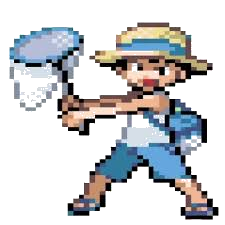
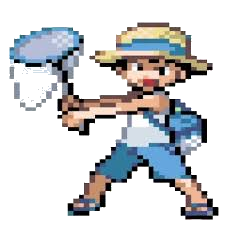
Fix Bug Catcher sprite (flood-fill bg removal) + expand Bug-type pool to all 12 Gen-1 bugs
- Flood-fill from borders only: net mesh interior whites preserved
- Pool now covers full Caterpie/Weedle/Paras/Venonat lines + Scyther + Pinsir
- Added Metapod, Kakuna, Paras, Venonat (were missing)

diff --git a/src/PokemonGame.jsx b/src/PokemonGame.jsx
@@ -3200,16 +3200,25 @@ const PokemonGame = () => {
     return true;
   };
 
-  // ── Bug Catcher Trade ────────────────────────────
+  // ── Bug Catcher Trade — all 12 Gen-1 Bug-types ──
   const bugCatcherPool = [
-    { name: 'Butterfree', type: 'Bug', type2: 'Flying', hp: 60, maxHp: 60, attack: 45, spAtk: 90, def: 50, spDef: 80, color: '🦋', moves: ['Gust', 'Confusion', 'Sleep Powder', 'Psychic'], moveTypes: ['Flying', 'Psychic', 'Grass', 'Psychic'] },
-    { name: 'Beedrill', type: 'Bug', type2: 'Poison', hp: 65, maxHp: 65, attack: 90, spAtk: 45, def: 40, spDef: 80, color: '🐝', moves: ['Fury Attack', 'Twineedle', 'Poison Jab', 'X-Scissor'], moveTypes: ['Normal', 'Bug', 'Poison', 'Bug'] },
-    { name: 'Scyther', type: 'Bug', type2: 'Flying', hp: 70, maxHp: 70, attack: 110, spAtk: 55, def: 80, spDef: 80, color: '🦗', moves: ['Slash', 'Wing Attack', 'X-Scissor', 'Aerial Ace'], moveTypes: ['Normal', 'Flying', 'Bug', 'Flying'] },
-    { name: 'Pinsir', type: 'Bug', type2: null, hp: 65, maxHp: 65, attack: 125, spAtk: 55, def: 100, spDef: 70, color: '🦂', moves: ['Vise Grip', 'Brick Break', 'X-Scissor', 'Earthquake'], moveTypes: ['Normal', 'Fighting', 'Bug', 'Ground'] },
-    { name: 'Parasect', type: 'Bug', type2: 'Grass', hp: 60, maxHp: 60, attack: 95, spAtk: 60, def: 80, spDef: 80, color: '🍄', moves: ['Slash', 'Spore', 'Leech Life', 'Giga Drain'], moveTypes: ['Normal', 'Grass', 'Bug', 'Grass'] },
-    { name: 'Venomoth', type: 'Bug', type2: 'Poison', hp: 70, maxHp: 70, attack: 65, spAtk: 90, def: 60, spDef: 75, color: '🦋', moves: ['Confusion', 'Sleep Powder', 'Psybeam', 'Bug Buzz'], moveTypes: ['Psychic', 'Grass', 'Psychic', 'Bug'] },
-    { name: 'Caterpie', type: 'Bug', type2: null, hp: 45, maxHp: 45, attack: 30, spAtk: 20, def: 35, spDef: 20, color: '🐛', moves: ['Tackle', 'String Shot', 'Bug Bite'], moveTypes: ['Normal', 'Bug', 'Bug'] },
-    { name: 'Weedle', type: 'Bug', type2: 'Poison', hp: 40, maxHp: 40, attack: 35, spAtk: 20, def: 30, spDef: 20, color: '🐝', moves: ['Poison Sting', 'String Shot', 'Bug Bite'], moveTypes: ['Poison', 'Bug', 'Bug'] },
+    // Caterpie line
+    { name: 'Caterpie',  type: 'Bug', type2: null,     hp: 45,  maxHp: 45,  attack: 30,  spAtk: 20,  def: 35,  spDef: 20,  color: '🐛', moves: ['Tackle', 'String Shot', 'Bug Bite'], moveTypes: ['Normal', 'Bug', 'Bug'] },
+    { name: 'Metapod',   type: 'Bug', type2: null,     hp: 50,  maxHp: 50,  attack: 20,  spAtk: 25,  def: 55,  spDef: 25,  color: '🥚', moves: ['Harden', 'Tackle', 'Bug Bite'], moveTypes: ['Normal', 'Normal', 'Bug'] },
+    { name: 'Butterfree',type: 'Bug', type2: 'Flying', hp: 60,  maxHp: 60,  attack: 45,  spAtk: 90,  def: 50,  spDef: 80,  color: '🦋', moves: ['Gust', 'Confusion', 'Sleep Powder', 'Psychic'], moveTypes: ['Flying', 'Psychic', 'Grass', 'Psychic'] },
+    // Weedle line
+    { name: 'Weedle',    type: 'Bug', type2: 'Poison', hp: 40,  maxHp: 40,  attack: 35,  spAtk: 20,  def: 30,  spDef: 20,  color: '🐝', moves: ['Poison Sting', 'String Shot', 'Bug Bite'], moveTypes: ['Poison', 'Bug', 'Bug'] },
+    { name: 'Kakuna',    type: 'Bug', type2: 'Poison', hp: 45,  maxHp: 45,  attack: 25,  spAtk: 25,  def: 50,  spDef: 25,  color: '🐝', moves: ['Harden', 'Poison Sting', 'Bug Bite'], moveTypes: ['Normal', 'Poison', 'Bug'] },
+    { name: 'Beedrill',  type: 'Bug', type2: 'Poison', hp: 65,  maxHp: 65,  attack: 90,  spAtk: 45,  def: 40,  spDef: 80,  color: '🐝', moves: ['Fury Attack', 'Twineedle', 'Poison Jab', 'X-Scissor'], moveTypes: ['Normal', 'Bug', 'Poison', 'Bug'] },
+    // Paras line
+    { name: 'Paras',     type: 'Bug', type2: 'Grass',  hp: 35,  maxHp: 35,  attack: 70,  spAtk: 45,  def: 55,  spDef: 55,  color: '🍄', moves: ['Scratch', 'Stun Spore', 'Leech Life', 'Spore'], moveTypes: ['Normal', 'Grass', 'Bug', 'Grass'] },
+    { name: 'Parasect',  type: 'Bug', type2: 'Grass',  hp: 60,  maxHp: 60,  attack: 95,  spAtk: 60,  def: 80,  spDef: 80,  color: '🍄', moves: ['Slash', 'Spore', 'Leech Life', 'Giga Drain'], moveTypes: ['Normal', 'Grass', 'Bug', 'Grass'] },
+    // Venonat line
+    { name: 'Venonat',   type: 'Bug', type2: 'Poison', hp: 60,  maxHp: 60,  attack: 55,  spAtk: 40,  def: 50,  spDef: 55,  color: '🔮', moves: ['Tackle', 'Confusion', 'Poison Powder', 'Psybeam'], moveTypes: ['Normal', 'Psychic', 'Poison', 'Psychic'] },
+    { name: 'Venomoth',  type: 'Bug', type2: 'Poison', hp: 70,  maxHp: 70,  attack: 65,  spAtk: 90,  def: 60,  spDef: 75,  color: '🦋', moves: ['Confusion', 'Sleep Powder', 'Psybeam', 'Bug Buzz'], moveTypes: ['Psychic', 'Grass', 'Psychic', 'Bug'] },
+    // Rare bugs
+    { name: 'Scyther',   type: 'Bug', type2: 'Flying', hp: 70,  maxHp: 70,  attack: 110, spAtk: 55,  def: 80,  spDef: 80,  color: '🦗', moves: ['Slash', 'Wing Attack', 'X-Scissor', 'Aerial Ace'], moveTypes: ['Normal', 'Flying', 'Bug', 'Flying'] },
+    { name: 'Pinsir',    type: 'Bug', type2: null,     hp: 65,  maxHp: 65,  attack: 125, spAtk: 55,  def: 100, spDef: 70,  color: '🦂', moves: ['Vise Grip', 'Brick Break', 'X-Scissor', 'Earthquake'], moveTypes: ['Normal', 'Fighting', 'Bug', 'Ground'] },
   ];
 
   const triggerTradeEvent = () => {
